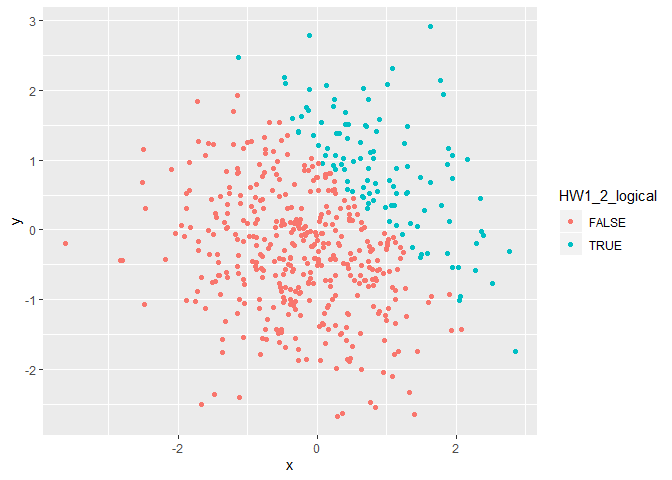
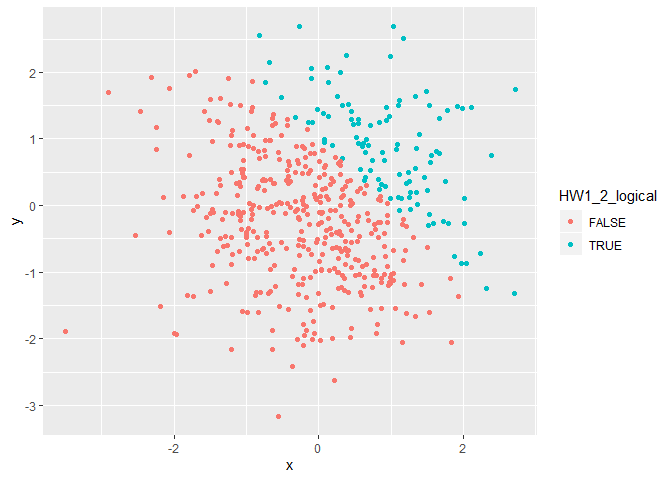
Exported first scatterplot (logical variable) as png

diff --git a/p8105_hw1_kpc2124.md b/p8105_hw1_kpc2124.md
@@ -5,7 +5,7 @@ Kristi Chau
 
 # Problem 1
 
-**Creating a data frame**
+**Creating a dataframe**
 
 ``` r
 library(tidyverse)
@@ -18,13 +18,13 @@ HW1_1_df = tibble(
 )
 ```
 
-**Then trying to take the mean of each variable.**
+**Trying to take the mean of each variable**
 
 ``` r
 mean(pull(HW1_1_df, HW1_1_samp))
-## [1] -0.407302
+## [1] 0.09470216
 mean(pull(HW1_1_df, HW1_1_samp_pos))
-## [1] 0.375
+## [1] 0.625
 mean(pull(HW1_1_df, HW1_1_char))
 ## Warning in mean.default(pull(HW1_1_df, HW1_1_char)): argument is not
 ## numeric or logical: returning NA
@@ -49,7 +49,7 @@ as.numeric(pull(HW1_1_df, HW1_1_char))
 as.numeric(pull(HW1_1_df, HW1_1_factor))
 ```
 
-**What happens, and why?**
+**What happened, and why?**
 
 The logical vector returned as numbers corresponding to TRUE or FALSE.
 The character vector was unable to return numeric values and instead
@@ -58,14 +58,13 @@ corresponded to the levels rather than the vector itself.
 
 # Problem 1\_1
 
-**Creating a new code chunk to manipulate variables from the
-dataframe.**
+**Creating a new code chunk to manipulate variables from the dataframe**
 
 ``` r
 HW1_1_samp_num = as.numeric(pull(HW1_1_df, HW1_1_samp_pos))
 HW1_1_samp_num * pull(HW1_1_df,HW1_1_samp)
-## [1] 0.0000000 0.0000000 0.0000000 0.1846661 0.6865814 0.0000000 0.3677776
-## [8] 0.0000000
+## [1] 0.000000000 0.000000000 0.005494444 1.235603075 1.126715195 0.935539399
+## [7] 1.271857653 0.000000000
 
 HW1_1_samp_factor = as.factor(pull(HW1_1_df,HW1_1_samp_pos))
 HW1_1_samp_factor * pull(HW1_1_df,HW1_1_samp)
@@ -75,8 +74,8 @@ HW1_1_samp_factor * pull(HW1_1_df,HW1_1_samp)
 
 HW1_1_samp_num2 = as.numeric(HW1_1_samp_factor)
 HW1_1_samp_num2 * pull(HW1_1_df,HW1_1_samp)
-## [1] -1.4033499 -1.6558151 -0.5884696  0.3693322  1.3731629 -0.6508188
-## [7]  0.7355551 -0.1989878
+## [1] -1.16317111 -1.32921787  0.01098889  2.47120615  2.25343039  1.87107880
+## [7]  2.54371531 -1.32520348
 ```
 
 # Problem 2
@@ -94,24 +93,21 @@ HW1_2_df = tibble(
 ```
 
 The size of the data set `HW1_2_df` is 2500. The mean of `x` is
-0.0359856. The median of `x` is 0.0202597. The standard deviation of `x`
-is 0.9790905. The proportion of cases for which `x + y > 1` is
-0.242.
+-0.016155. The median of `x` is 0.0175187. The standard deviation of `x`
+is 0.9793135. The proportion of cases for which `x + y > 1` is 0.21.
 
-``` r
-ggplot(HW1_2_df, aes(x = x, y = y, color = HW1_2_logical)) + geom_point()
-```
+**Scatterplots**
 
 ![](p8105_hw1_kpc2124_files/figure-gfm/df_2_plot1-1.png)<!-- -->
 
-``` r
-ggplot(HW1_2_df, aes(x = x, y = y, color = HW1_2_numeric)) + geom_point()
-```
-
 ![](p8105_hw1_kpc2124_files/figure-gfm/df_2_plot2-1.png)<!-- -->
 
-``` r
-ggplot(HW1_2_df, aes(x = x, y = y, color = HW1_2_factor)) + geom_point()
-```
-
 ![](p8105_hw1_kpc2124_files/figure-gfm/df_2_plot3-1.png)<!-- -->
+
+The color scales for the logical and factor variables are binary
+TRUE/FALSE scales. For the numeric variable, the color scale is a
+continuous scale from 0.00 to 1.00.
+
+``` r
+ggsave("Plot_1.png", plot = plot_logical)
+```
